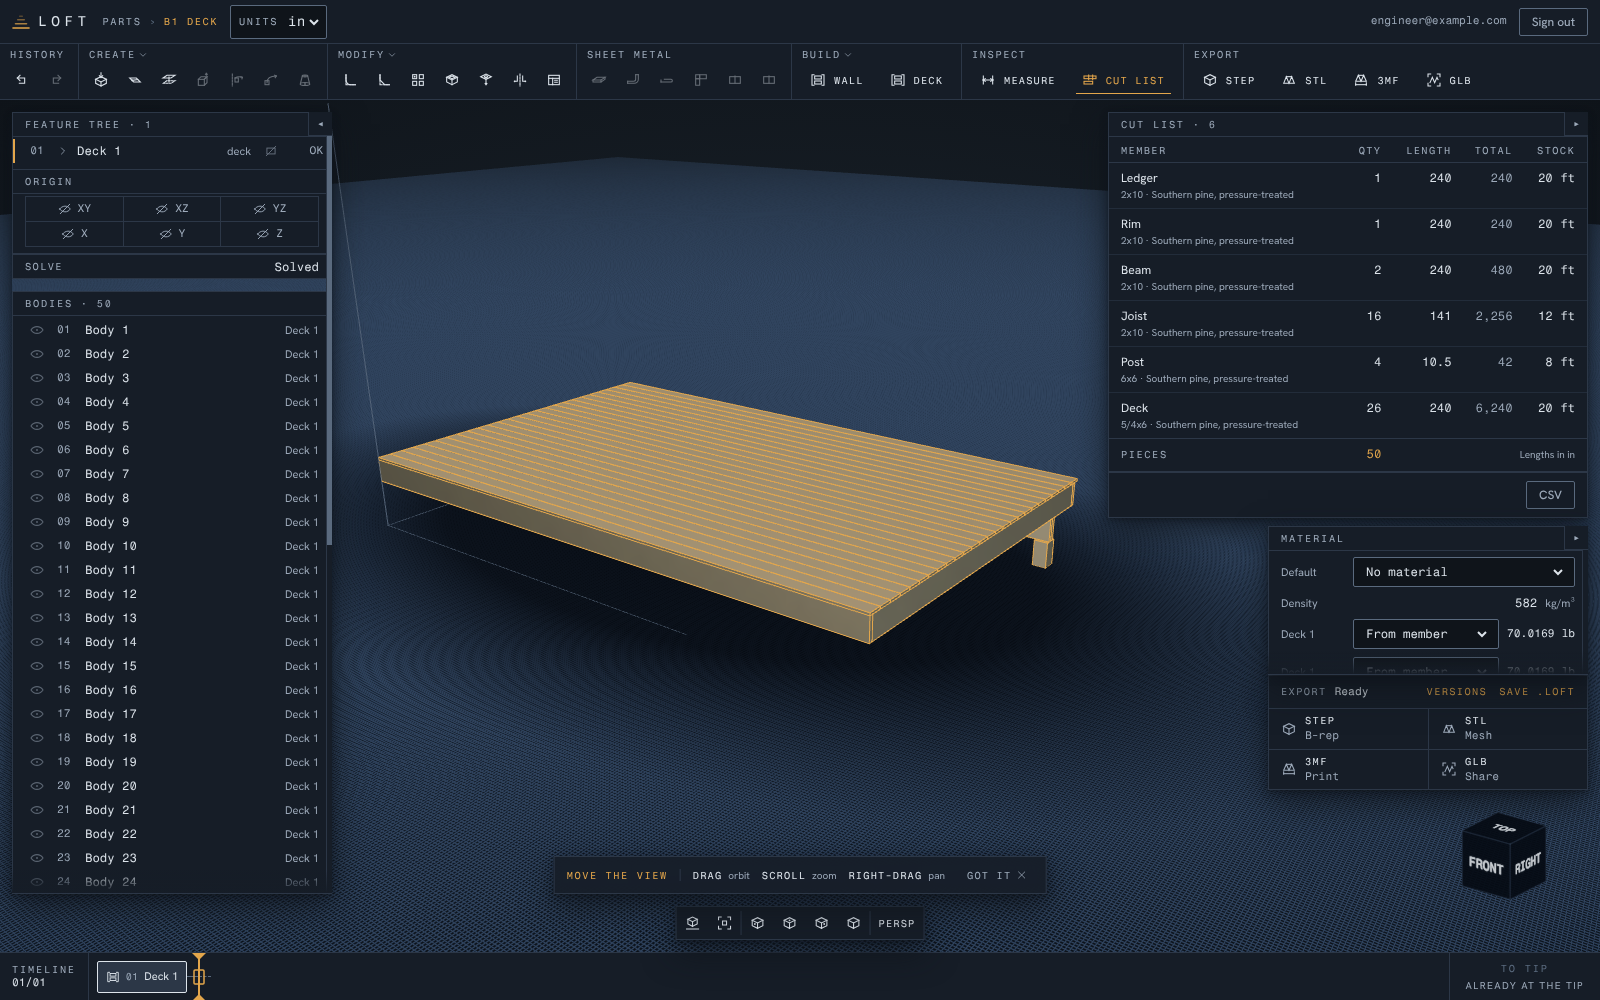
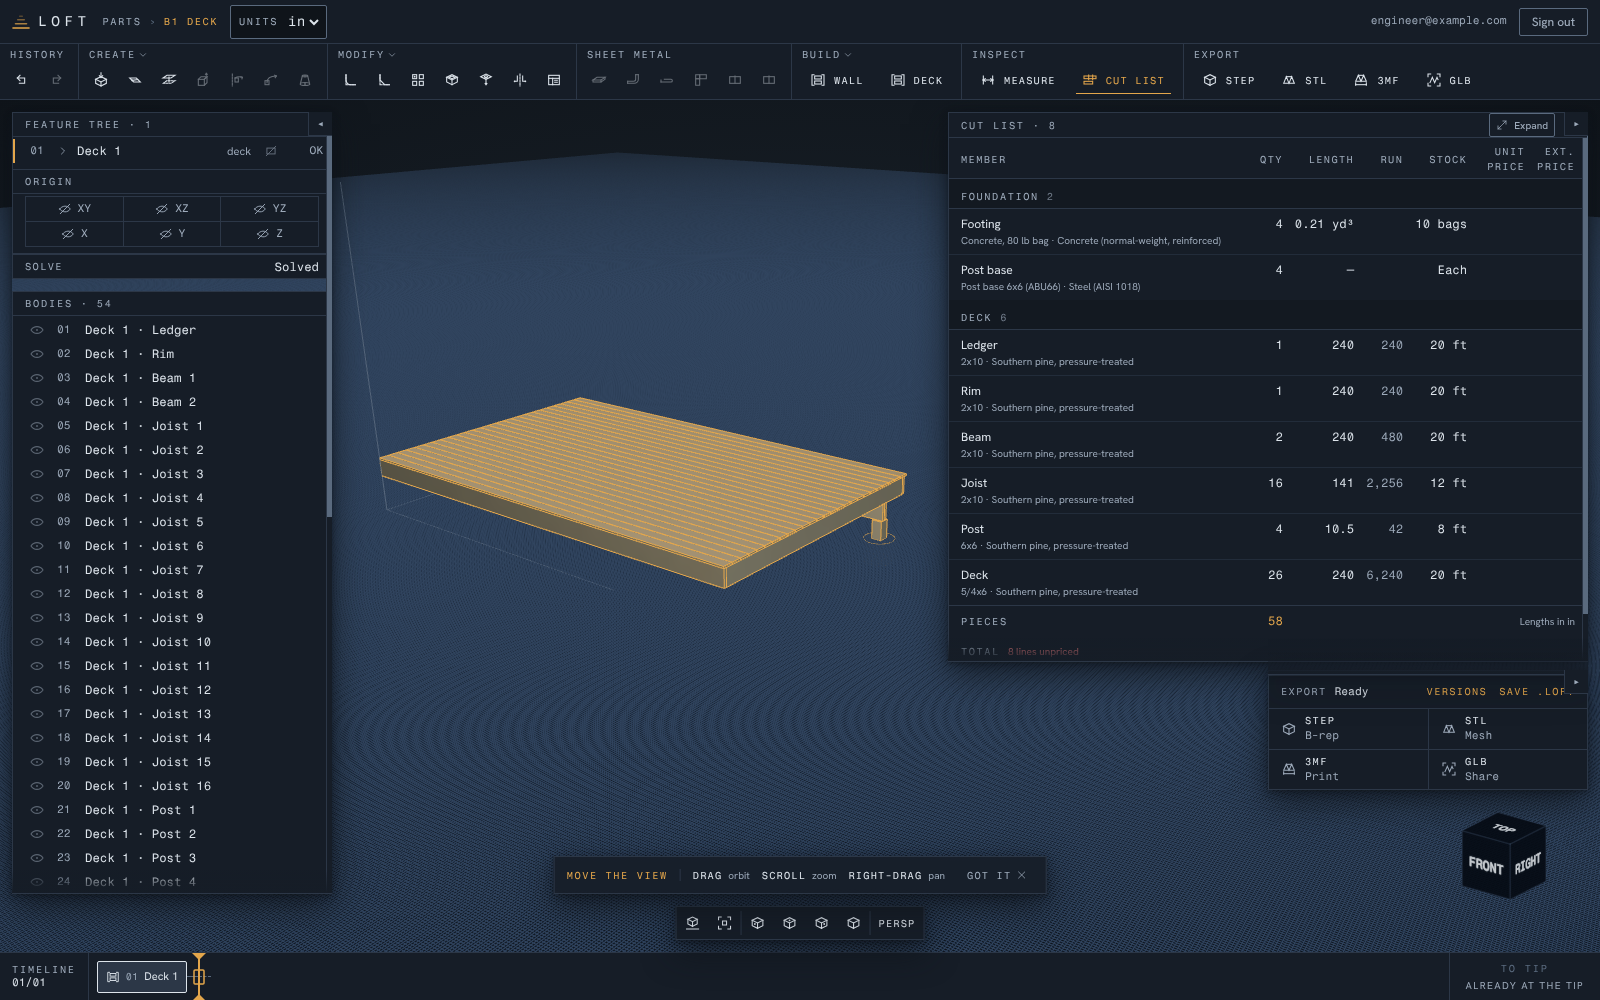
test(e2e): build B1 on pier footings and read its bags and post bases
deck-footings.spec.ts runs Build > Deck at 16 x 12 ft with every default
on a book pricing a bag at $6.48 and a post base at $28.97: 3 Footing
members, then Foundation leads the cut list with 3 footings, 0.16 yd3,
8 bags ($51.84) and 3 post bases ($86.91); 20 ft gives 4, 0.21 yd3,
10 bags and 4 bases; Ready-mix orders 0.25 yd3; a reload keeps 1.2.0.
deck-b1.spec.ts now reads the two Foundation rows a new deck lists (52
and 58 pieces). Measured 52.0 s, in e2e-durations.json; screenshots
docs/screenshots/deck-footings-*.png and the refreshed deck-b1 pair.

Claude-Session: https://claude.ai/code/session_0187m1Up5oMSqhzNuRp9tgBJ

diff --git a/apps/web/e2e/deck-footings.spec.ts b/apps/web/e2e/deck-footings.spec.ts
@@ -1,0 +1,199 @@
+import { expectSolved, openCutList } from "./buildFlow";
+import { expect, type Page, test } from "./fixtures";
+import { SCREENSHOT_DIR, seedSession } from "./support";
+
+/**
+ * DECK-FOOTINGS: B1 (docs/reference-parts/buildings.md) on pier footings, as
+ * Chief Architect's deck room places a post footing under every post. Build
+ * > Deck at 16 x 12 ft with every default: a Ø16 x 12 in round pier under
+ * each of the 3 posts, its top at grade, bought as 80 lb bags.
+ *
+ * The cut list leads with Foundation: the 3 footings, 7 238.23 in³ as
+ * 0.16 yd³, 4.19 ft³ x 1.05 / 0.60 = 7.33, so 8 bags at $6.48 = $51.84; and
+ * 3 post bases (ABU66) at $28.97 = $86.91. The Deck framing follows,
+ * unchanged. The 20 ft edit gives 4 footings, 9.77 so 10 bags, and 4 bases;
+ * Ready-mix instead orders 0.25 yd³. Goldens
+ * `plugin-deck-v1.2-b1-footings-16ft` and `-20ft` pin the geometry.
+ */
+
+const PLUGIN = "loft.deck";
+
+type Row = [string, string, string, string, string];
+
+/** The Foundation rows: member, qty, length, stock, extended price. */
+const FOOTINGS_16: Row[] = [
+  ["Footing", "3", "0.16 yd³", "8 bags", "$51.84"],
+  ["Post base", "3", "—", "Each", "$86.91"],
+];
+const FOOTINGS_20: Row[] = [
+  ["Footing", "4", "0.21 yd³", "10 bags", "$64.80"],
+  ["Post base", "4", "—", "Each", "$115.88"],
+];
+
+async function expectFoundation(page: Page, rows: Row[]): Promise<void> {
+  const panel = page.getByTestId("cut-list-panel");
+  const foundation = panel.locator(
+    '[data-testid="cut-list-row"][data-system="foundation"]',
+  );
+  await expect(foundation).toHaveCount(rows.length, { timeout: 90_000 });
+  for (const [index, [member, qty, length, stock, ext]] of rows.entries()) {
+    const row = foundation.nth(index);
+    await expect(row.getByTestId("cut-list-member")).toHaveText(member);
+    await expect(row.getByTestId("cut-list-qty")).toHaveText(qty);
+    await expect(row.getByTestId("cut-list-length")).toHaveText(length);
+    await expect(row.getByTestId("cut-list-stock")).toHaveText(stock);
+    await expect(row.getByTestId("cut-list-ext-price")).toHaveText(ext);
+  }
+}
+
+async function submit(page: Page): Promise<void> {
+  const editor = page.getByTestId("plugin-editor");
+  await page.getByTestId("plugin-submit").click();
+  await expect(editor).toBeHidden({ timeout: 60_000 });
+  await expectSolved(page);
+}
+
+test.describe("Deck footings — B1 on piers", () => {
+  test.use({ viewport: { width: 1600, height: 1000 } });
+
+  test("a new deck stands on a pier under each post, bought in 80 lb bags with post bases", async ({
+    page,
+  }) => {
+    test.setTimeout(300_000);
+    const account = await seedSession(page);
+    const auth = { Authorization: `Bearer ${account.token}` };
+    // $6.48 a bag and $28.97 a post base, saved as a yard's book would be.
+    const book = await page.request.put("/api/v1/price-book", {
+      data: {
+        currency: "USD",
+        entries: [
+          {
+            material: "concrete",
+            profile: "concrete_bag_80",
+            unit: "each",
+            price_cents: 648,
+          },
+          {
+            material: "steel_1018",
+            profile: "post_base_6x6",
+            unit: "each",
+            price_cents: 2897,
+          },
+        ],
+      },
+      headers: { ...auth, "If-Match": '"0"' },
+    });
+    expect(book.ok(), await book.text()).toBe(true);
+    const created = await page.request.post("/api/v1/parts", {
+      data: { name: "B1 deck on piers", length_unit: "in" },
+      headers: auth,
+    });
+    expect(created.ok(), await created.text()).toBe(true);
+    const partId = ((await created.json()) as { id: string }).id;
+
+    await page.goto(`/parts/${partId}`);
+    const rows = page.getByTestId("feature-row");
+    await expect(rows).toHaveCount(0);
+
+    // Build > Deck: the footings are on by default, Ø16 x 12, in bags.
+    const tool = page.getByTestId(`plugin-tool-${PLUGIN}`);
+    await expect(tool).toBeEnabled({ timeout: 30_000 });
+    await tool.click();
+    const editor = page.getByTestId("plugin-editor");
+    await expect(editor).toContainText("New Deck");
+    await page.getByTestId("plugin-input-width_mm").fill("16 ft");
+    await page.getByTestId("plugin-input-depth_mm").fill("12 ft");
+    await expect(page.getByTestId("plugin-input-footings")).toHaveValue(
+      "piers",
+    );
+    await expect(
+      page.getByTestId("plugin-input-footing_diameter_mm"),
+    ).toHaveValue("16");
+    await expect(page.getByTestId("plugin-input-footing_depth_mm")).toHaveValue(
+      "12",
+    );
+    await expect(
+      page.getByTestId("plugin-input-footing_concrete-bags_80"),
+    ).toHaveAttribute("aria-pressed", "true");
+    await expect(
+      page.getByTestId("plugin-input-post_bases-yes"),
+    ).toHaveAttribute("aria-pressed", "true");
+    await submit(page);
+    await expect(rows).toHaveCount(1);
+
+    // One footing member under each post.
+    await page.getByTestId("feature-unfold-0").click();
+    const members = page.getByTestId("feature-member-row");
+    await expect(members.filter({ hasText: "Footing" })).toHaveCount(3);
+    await page.getByTestId("feature-unfold-0").click();
+
+    // From the front: the piers below grade under the posts.
+    await page.getByTestId("view-front").click();
+    await page.getByTestId("view-fit").click();
+    await page.mouse.move(800, 990);
+    await page.screenshot({
+      path: `${SCREENSHOT_DIR}/deck-footings-front.png`,
+    });
+    await page.getByTestId("view-iso").click();
+
+    await openCutList(page);
+    await expectFoundation(page, FOOTINGS_16);
+    const panel = page.getByTestId("cut-list-panel");
+    await expect(
+      panel.locator('[data-testid="cut-list-row"][data-system="deck"]'),
+    ).toHaveCount(6);
+    await page.mouse.move(800, 990);
+    await page.screenshot({
+      path: `${SCREENSHOT_DIR}/deck-footings-cut-list.png`,
+    });
+
+    // The spec's edit, 16 -> 20 ft: a fourth post, so a fourth pier.
+    await page.getByTestId("feature-select-0").click();
+    await expect(editor).toContainText("Edit Deck");
+    await page.getByTestId("plugin-input-width_mm").fill("20 ft");
+    await submit(page);
+    await openCutList(page);
+    await expectFoundation(page, FOOTINGS_20);
+    await page.mouse.move(800, 990);
+    await page.screenshot({
+      path: `${SCREENSHOT_DIR}/deck-footings-20ft.png`,
+    });
+
+    // Ready-mix instead: SLAB's takeoff, 0.21 x 1.05 up to 0.25 yd³ (the
+    // book prices no ready-mix, so the line stays blank).
+    await page.getByTestId("feature-select-0").click();
+    await page.getByTestId("plugin-input-footing_concrete-ready_mix").click();
+    await submit(page);
+    await openCutList(page);
+    const footing = panel.locator(
+      '[data-testid="cut-list-row"][data-member="Footing"]',
+    );
+    await expect(footing.getByTestId("cut-list-stock")).toHaveText("0.25 yd³", {
+      timeout: 90_000,
+    });
+    await expect(footing.getByTestId("cut-list-ext-price")).toHaveText("");
+
+    // A reload keeps the stored inputs.
+    await page.reload();
+    await expect(rows).toHaveCount(1);
+    await expectSolved(page);
+    const tree = await page.request.get(`/api/v1/parts/${partId}/features`, {
+      headers: auth,
+    });
+    const params = (
+      (await tree.json()) as {
+        features: {
+          feature: {
+            params: {
+              plugin_version: string;
+              inputs: Record<string, unknown>;
+            };
+          };
+        }[];
+      }
+    ).features[0]?.feature.params;
+    expect(params?.plugin_version).toBe("1.2.0");
+    expect(params?.inputs.footing_concrete).toBe("ready_mix");
+    expect(params?.inputs.footings).toBe("piers");
+  });
+});

diff --git a/apps/web/e2e/deck-b1.spec.ts b/apps/web/e2e/deck-b1.spec.ts
@@ -8,16 +8,20 @@ import { SCREENSHOT_DIR, seedSession } from "./support";
  * feature, inserted from the Build group, with no member drawn by hand.
  *
  * In an inch part: Build > Deck, set 16 ft x 12 ft in the generated form,
- * and the deck builds as 46 member bodies whose cut list is the spec's
+ * and the deck builds as 46 framing bodies whose cut list is the spec's
  * table, weighed by their member material (the Material panel says "From
- * member", never "No material"). Then the spec's named edit, width 16 ->
- * 20 ft: 50 members and the edit's table. A reload keeps it.
+ * member", never "No material"), on a pier footing under each post
+ * (loft.deck 1.2.0, DECK-FOOTINGS: Foundation leads the list). Then the
+ * spec's named edit, width 16 -> 20 ft: 50 members and the edit's table. A
+ * reload keeps it.
  */
 
 const PLUGIN = "loft.deck";
 
 /** buildings.md B1's cut list: member, qty, length (in), stock. */
 const B1_TABLE: [string, string, string, string][] = [
+  ["Footing", "3", "0.16 yd³", "8 bags"],
+  ["Post base", "3", "—", "Each"],
   ["Ledger", "1", "192", "16 ft"],
   ["Rim", "1", "192", "16 ft"],
   ["Beam", "2", "192", "16 ft"],
@@ -29,6 +33,8 @@ const B1_TABLE: [string, string, string, string][] = [
 /** The edit: "Ledger, rim, beam plies and decking become 240 (20 ft
  * stock), joists 16, posts 4." */
 const B1_20FT_TABLE: [string, string, string, string][] = [
+  ["Footing", "4", "0.21 yd³", "10 bags"],
+  ["Post base", "4", "—", "Each"],
   ["Ledger", "1", "240", "20 ft"],
   ["Rim", "1", "240", "20 ft"],
   ["Beam", "2", "240", "20 ft"],
@@ -124,7 +130,7 @@ test.describe("Deck — the B1 deck from one feature", () => {
     await page.getByTestId("feature-unfold-0").click();
 
     await openCutList(page);
-    await expectTable(page, B1_TABLE, "46");
+    await expectTable(page, B1_TABLE, "52");
     await expectWeighed(page);
     await page.mouse.move(800, 990);
     await page.screenshot({ path: `${SCREENSHOT_DIR}/deck-b1.png` });
@@ -139,7 +145,7 @@ test.describe("Deck — the B1 deck from one feature", () => {
     await expect(editor).toBeHidden({ timeout: 30_000 });
     await expectSolved(page);
     await openCutList(page);
-    await expectTable(page, B1_20FT_TABLE, "50");
+    await expectTable(page, B1_20FT_TABLE, "58");
     await expectWeighed(page);
     await page.mouse.move(800, 990);
     await page.screenshot({ path: `${SCREENSHOT_DIR}/deck-b1-20ft.png` });
@@ -149,7 +155,7 @@ test.describe("Deck — the B1 deck from one feature", () => {
     await expect(rows).toHaveCount(1);
     await expectSolved(page);
     await openCutList(page);
-    await expectTable(page, B1_20FT_TABLE, "50");
+    await expectTable(page, B1_20FT_TABLE, "58");
     const tree = await page.request.get(`/api/v1/parts/${partId}/features`, {
       headers: { Authorization: `Bearer ${account.token}` },
     });
